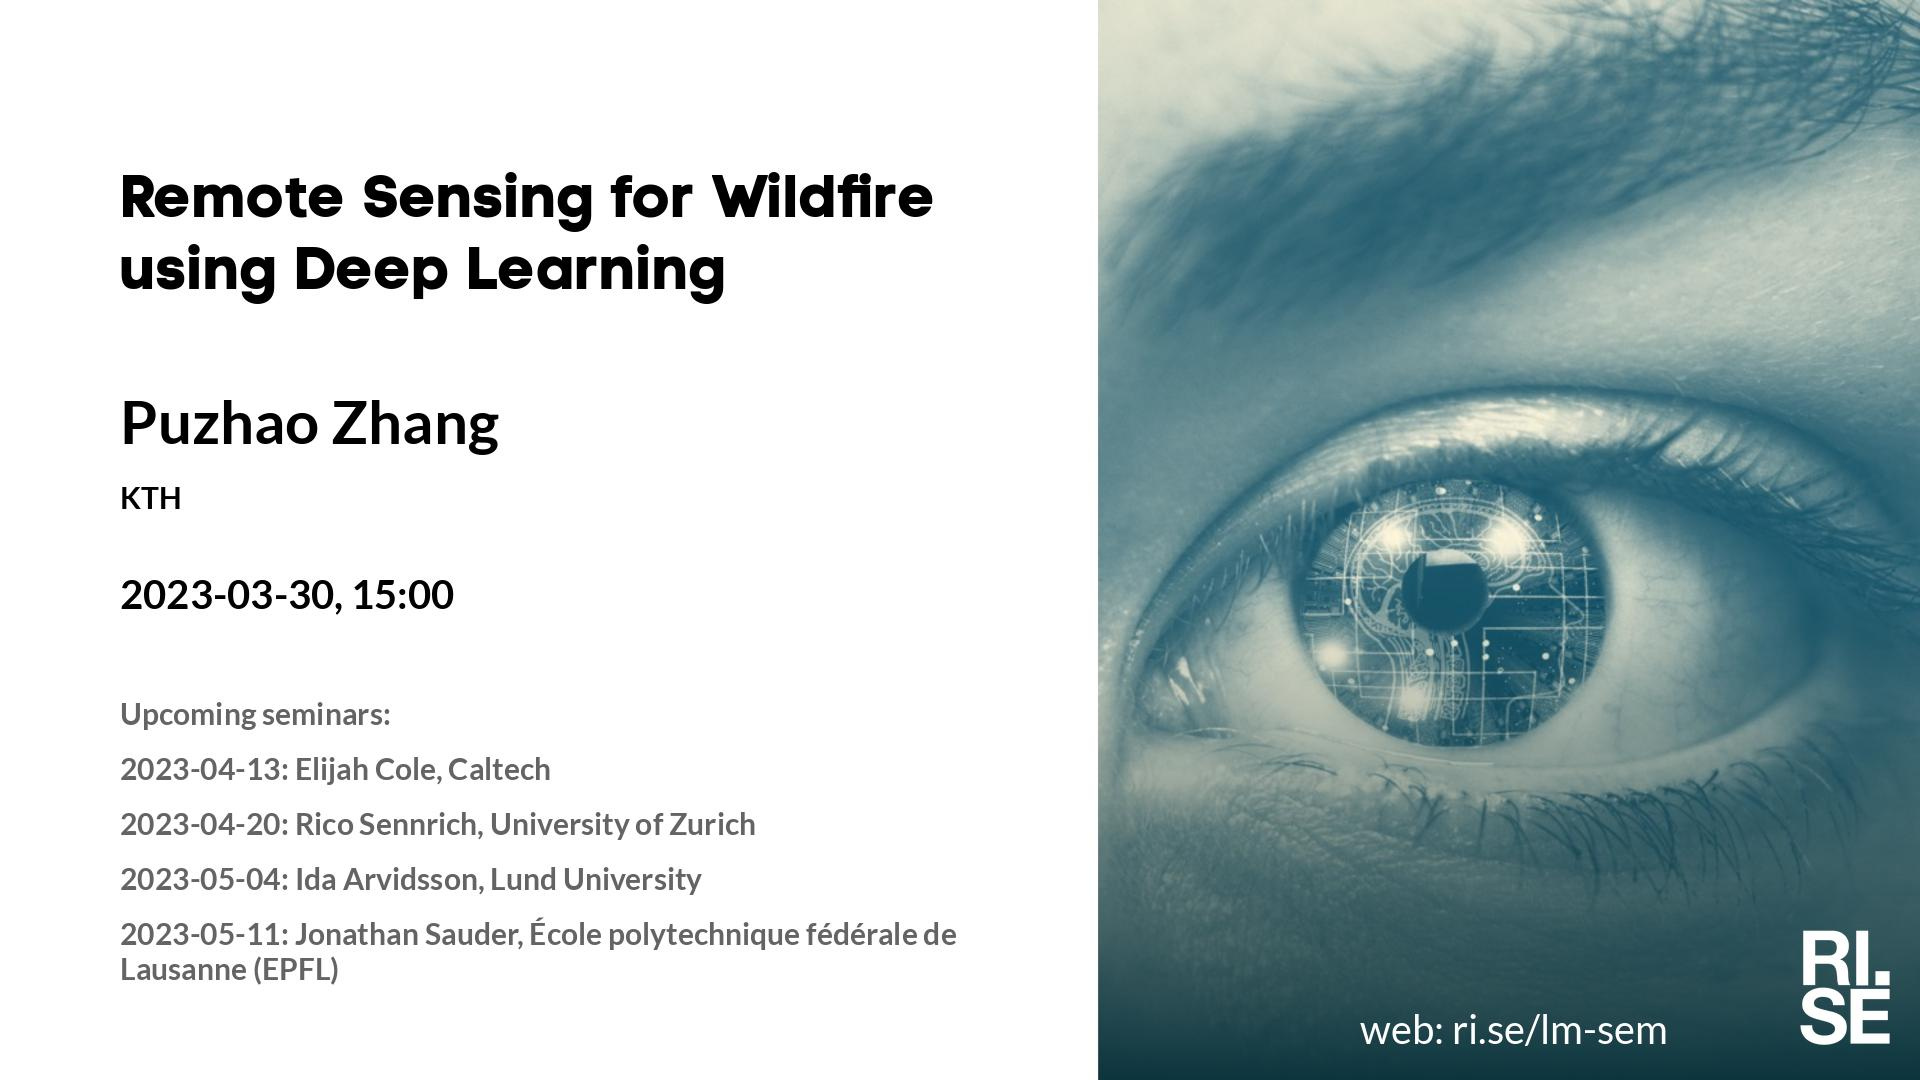
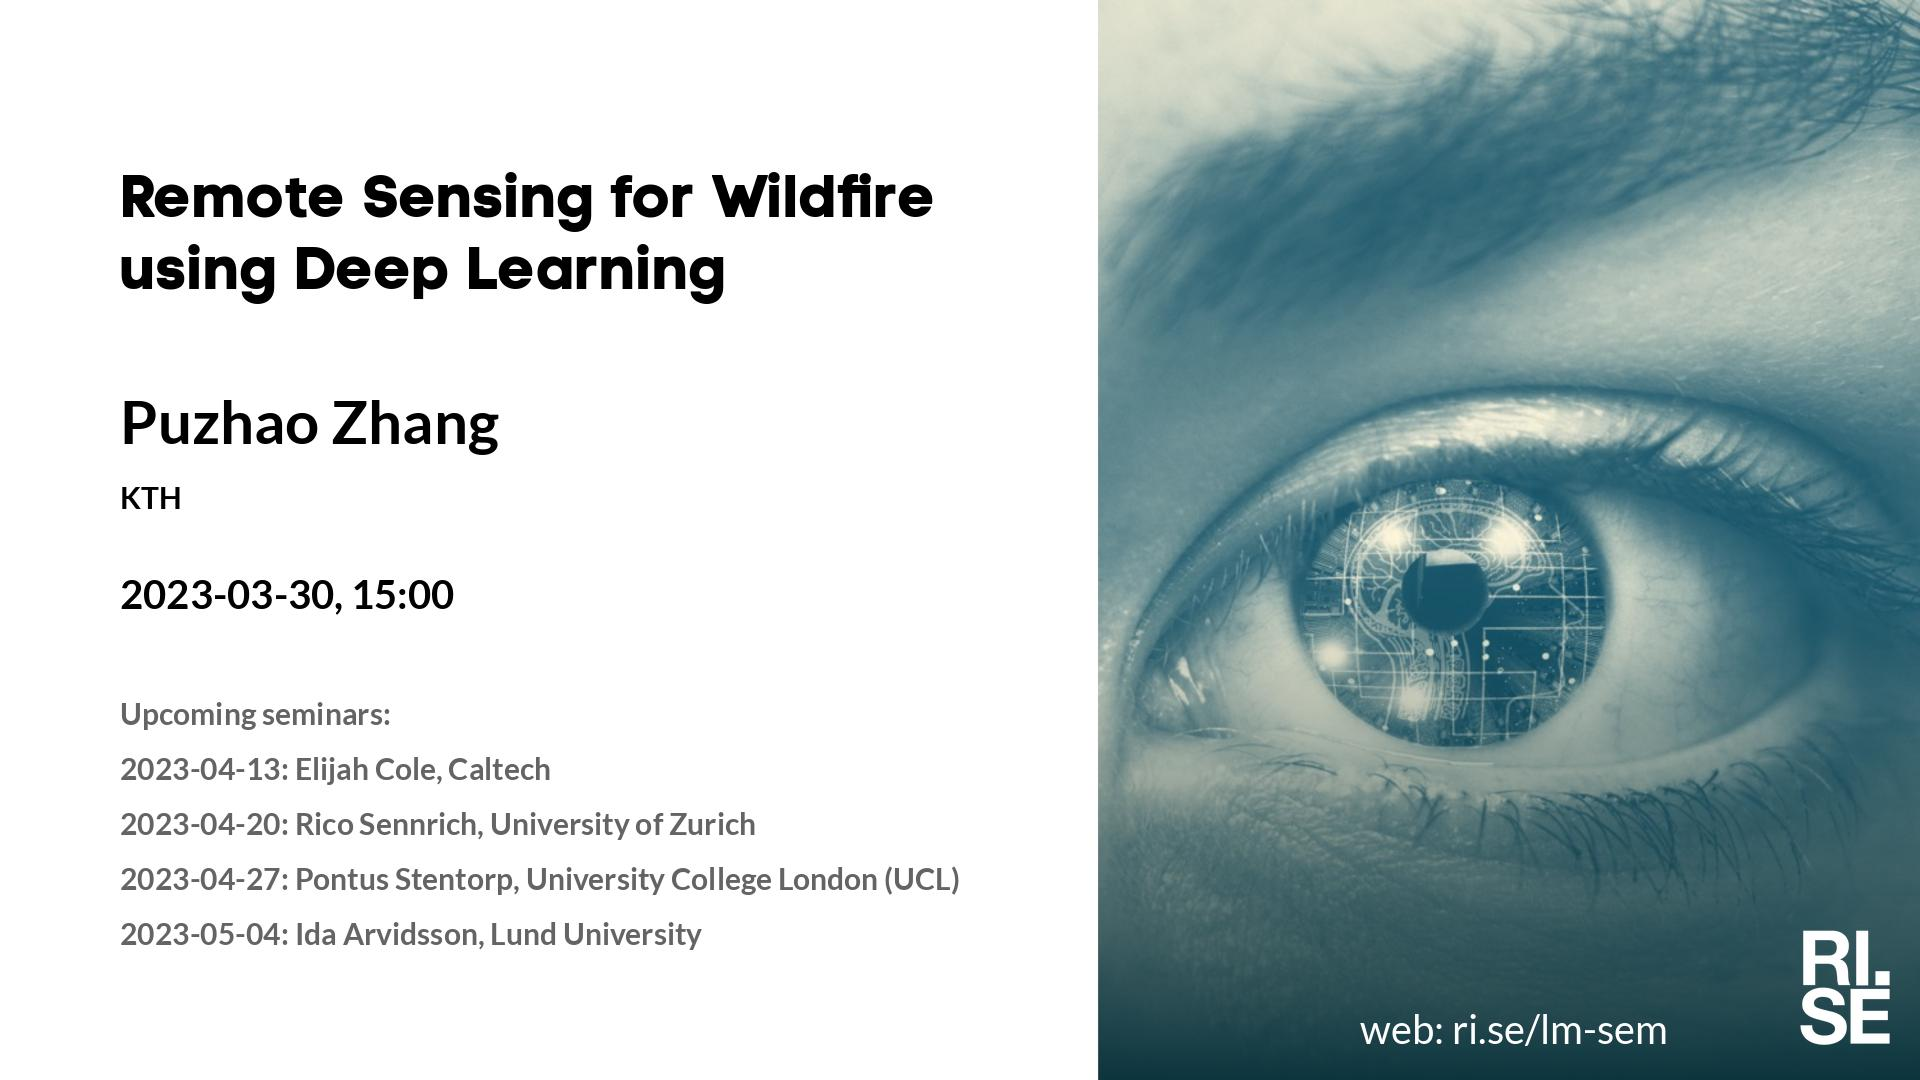
Updated plan on web site.

Changed region(s): [[0.0625, 0.8556, 0.5, 0.9167], [0.0938, 0.7944, 0.5, 0.825]]

diff --git a/lm/2023-03-23.md b/lm/2023-03-23.md
@@ -8,8 +8,8 @@ Welcome to this week's Learning Machines seminar.
 
 **Speaker:** Gabrielle Flood, Lund University
 
-**Abstract:** With the fast development of autonomous vehicles and agents that move in the world without human supervision, the need for good localisation methods is high. However, the agent cannot determine its position without having something to relate to, hence, there is also an increased demand for accurate 3D maps. An important issue connected to this is how to match and merge individual local maps into one global map. 
-
+**Abstract:** With the fast development of autonomous vehicles and agents that move in the world without human supervision, the need for good localisation methods is high. However, the agent cannot determine its position without having something to relate to, hence, there is also an increased demand for accurate 3D maps. An important issue connected to this is how to match and merge individual local maps into one global map. ,
+,
 In this talk we will discuss how to do efficient, flexible and robust map matching and merging. We mainly focus on maps created from image data, but the methods are applicable to sparse 3D maps coming from different sensor modalities. Merging of maps can be advantageous if there are several map representations of the same environment, e.g. in collaborative SLAM, or if there is a need for adding new information to an already existing map. We will look at ways to do this which utilises a compact approximation of the residuals and still allows for deformations in the original maps.
 
 **About the speaker:** Gabrielle Flood is a postdoctoral researcher at the Division for Computer Vision and Machine Learning at the Centre for Mathematical Sciences, Lund University, where she also defended her Ph.D. in applied mathematics in 2021. The topic of her thesis was “Mapping and Merging Using Sound and Vision - Automatic Calibration and Map Fusion with Statistical Deformations”. Prior to this, she received a M.Sc. in applied mathematics in 2016, also from the Faculty of Engineering at Lund University. Gabrielles research interests concern image analysis in general and geometric problems in computer vision in particular. Currently, her research is mainly focusing on positioning and robust estimation of 3D reconstructions from different sensor modalities - such as images and audio - and efficient merging of such reconstructions.
@@ -23,7 +23,7 @@ In this talk we will discuss how to do efficient, flexible and robust map matchi
 * 2023-03-30: Puzhao Zhang, KTH
 * 2023-04-13: Elijah Cole, Caltech
 * 2023-04-20: Rico Sennrich, University of Zurich
-* 2023-05-04: Ida Arvidsson, Lund University
+* 2023-04-27: Pontus Stentorp, University College London (UCL)
 
 More information and coming seminars: [https://ri.se/lm-sem](https://ri.se/lm-sem)
 

diff --git a/lm/index.md b/lm/index.md
@@ -5,11 +5,10 @@ metatags: "<meta name=\"robots\" content=\"noindex,nofollow\" />"
 <style type="text/css" scoped>
 td, th {border: 1px solid #ccc; padding: 0.6em;}
 table {border-collapse: collapse;}
-</style># Learning Machines Plan 2023-03-13
+</style># Learning Machines Plan 2023-03-15
 
 | date | speaker                                   | photo | shareable | meeting backdrop | youtube thumbnail | <a title="Speaker, Title, Abstract, Bio, Photo. Strikethrough means we don't have it yet.">comment</a>        |
 | ---- | ----------------------------------------- | ----- | ----- | ----- | ----- | -------------- |
-|  2023-02-23  |  [Alexander Ilin, Aalto University](2023-02-23.md)  |  [photo](photo-alexander-ilin.jpg)  |  [social media ](social-media-alexander-ilin.jpg)  |  [meeting backdrop ](meeting-backdrop-alexander-ilin.jpg)  |  [youtube thumbnail ](youtube-thumbnail-alexander-ilin.jpg)  |  STABP  |
 | <span style="color:red"> 2023-03-02 </span> | <span style="color:red"> Sportlov-STHLM </span> | <span style="color:red">  </span> | <span style="color:red">  </span> | <span style="color:red">  </span> | <span style="color:red">  </span> | <span style="color:red"> CANCELLED </span> |
 |  2023-03-09  |  [Shay Cohen, University of Edinburgh](2023-03-09.md)  |  [photo](photo-shay-cohen.jpg)  |  [social media ](social-media-shay-cohen.jpg)  |  [meeting backdrop ](meeting-backdrop-shay-cohen.jpg)  |  [youtube thumbnail ](youtube-thumbnail-shay-cohen.jpg)  |  STABP  |
 |  2023-03-16  |  [Stefanos Georganos, Karlstad University/KTH](2023-03-16.md)  |  [photo](photo-stefanos-georganos.jpg)  |  [social media ](social-media-stefanos-georganos.jpg)  |  [meeting backdrop ](meeting-backdrop-stefanos-georganos.jpg)  |  [youtube thumbnail ](youtube-thumbnail-stefanos-georganos.jpg)  |  STABP  |

diff --git a/lm/2023-03-30.md b/lm/2023-03-30.md
@@ -20,8 +20,8 @@ Welcome to this week's Learning Machines seminar.
 
 * 2023-04-13: Elijah Cole, Caltech
 * 2023-04-20: Rico Sennrich, University of Zurich
+* 2023-04-27: Pontus Stentorp, University College London (UCL)
 * 2023-05-04: Ida Arvidsson, Lund University
-* 2023-05-11: Jonathan Sauder, École polytechnique fédérale de Lausanne (EPFL)
 
 More information and coming seminars: [https://ri.se/lm-sem](https://ri.se/lm-sem)
 

diff --git a/lm/2023-04-27.md b/lm/2023-04-27.md
@@ -12,7 +12,7 @@ Welcome to this week's Learning Machines seminar.
 
 **About the speaker:** bio
 
-**Location:** This is an online seminar. Connect using Zoom.
+**Location:** Isafjordsgatan 22, Kista, or online using Zoom.
 
 **Zoom link:** [https://rise.zoom.us/j/208117140?pwd=RWt2bm8xbkc1SlFNaCtuQTFlU29GUT09](https://rise.zoom.us/j/208117140?pwd=RWt2bm8xbkc1SlFNaCtuQTFlU29GUT09)
 

diff --git a/lm/2023-05-04.md b/lm/2023-05-04.md
@@ -12,7 +12,7 @@ Welcome to this week's Learning Machines seminar.
 
 **About the speaker:** 
 
-**Location:** This is an online seminar. Connect using Zoom.
+**Location:** location, or online using Zoom.
 
 **Zoom link:** [https://rise.zoom.us/j/208117140?pwd=ejRTNkZKVGtHYnNua2JlTjR0RkVaUT09](https://rise.zoom.us/j/208117140?pwd=ejRTNkZKVGtHYnNua2JlTjR0RkVaUT09)
 

diff --git a/lm/2023-05-11.md b/lm/2023-05-11.md
@@ -12,7 +12,7 @@ Welcome to this week's Learning Machines seminar.
 
 **About the speaker:** 
 
-**Location:** This is an online seminar. Connect using Zoom.
+**Location:** location, or online using Zoom.
 
 **Zoom link:** [https://rise.zoom.us/j/208117140?pwd=cnpOSUptWmlpT0wxYklxcSt2UWJRQT09](https://rise.zoom.us/j/208117140?pwd=cnpOSUptWmlpT0wxYklxcSt2UWJRQT09)
 
